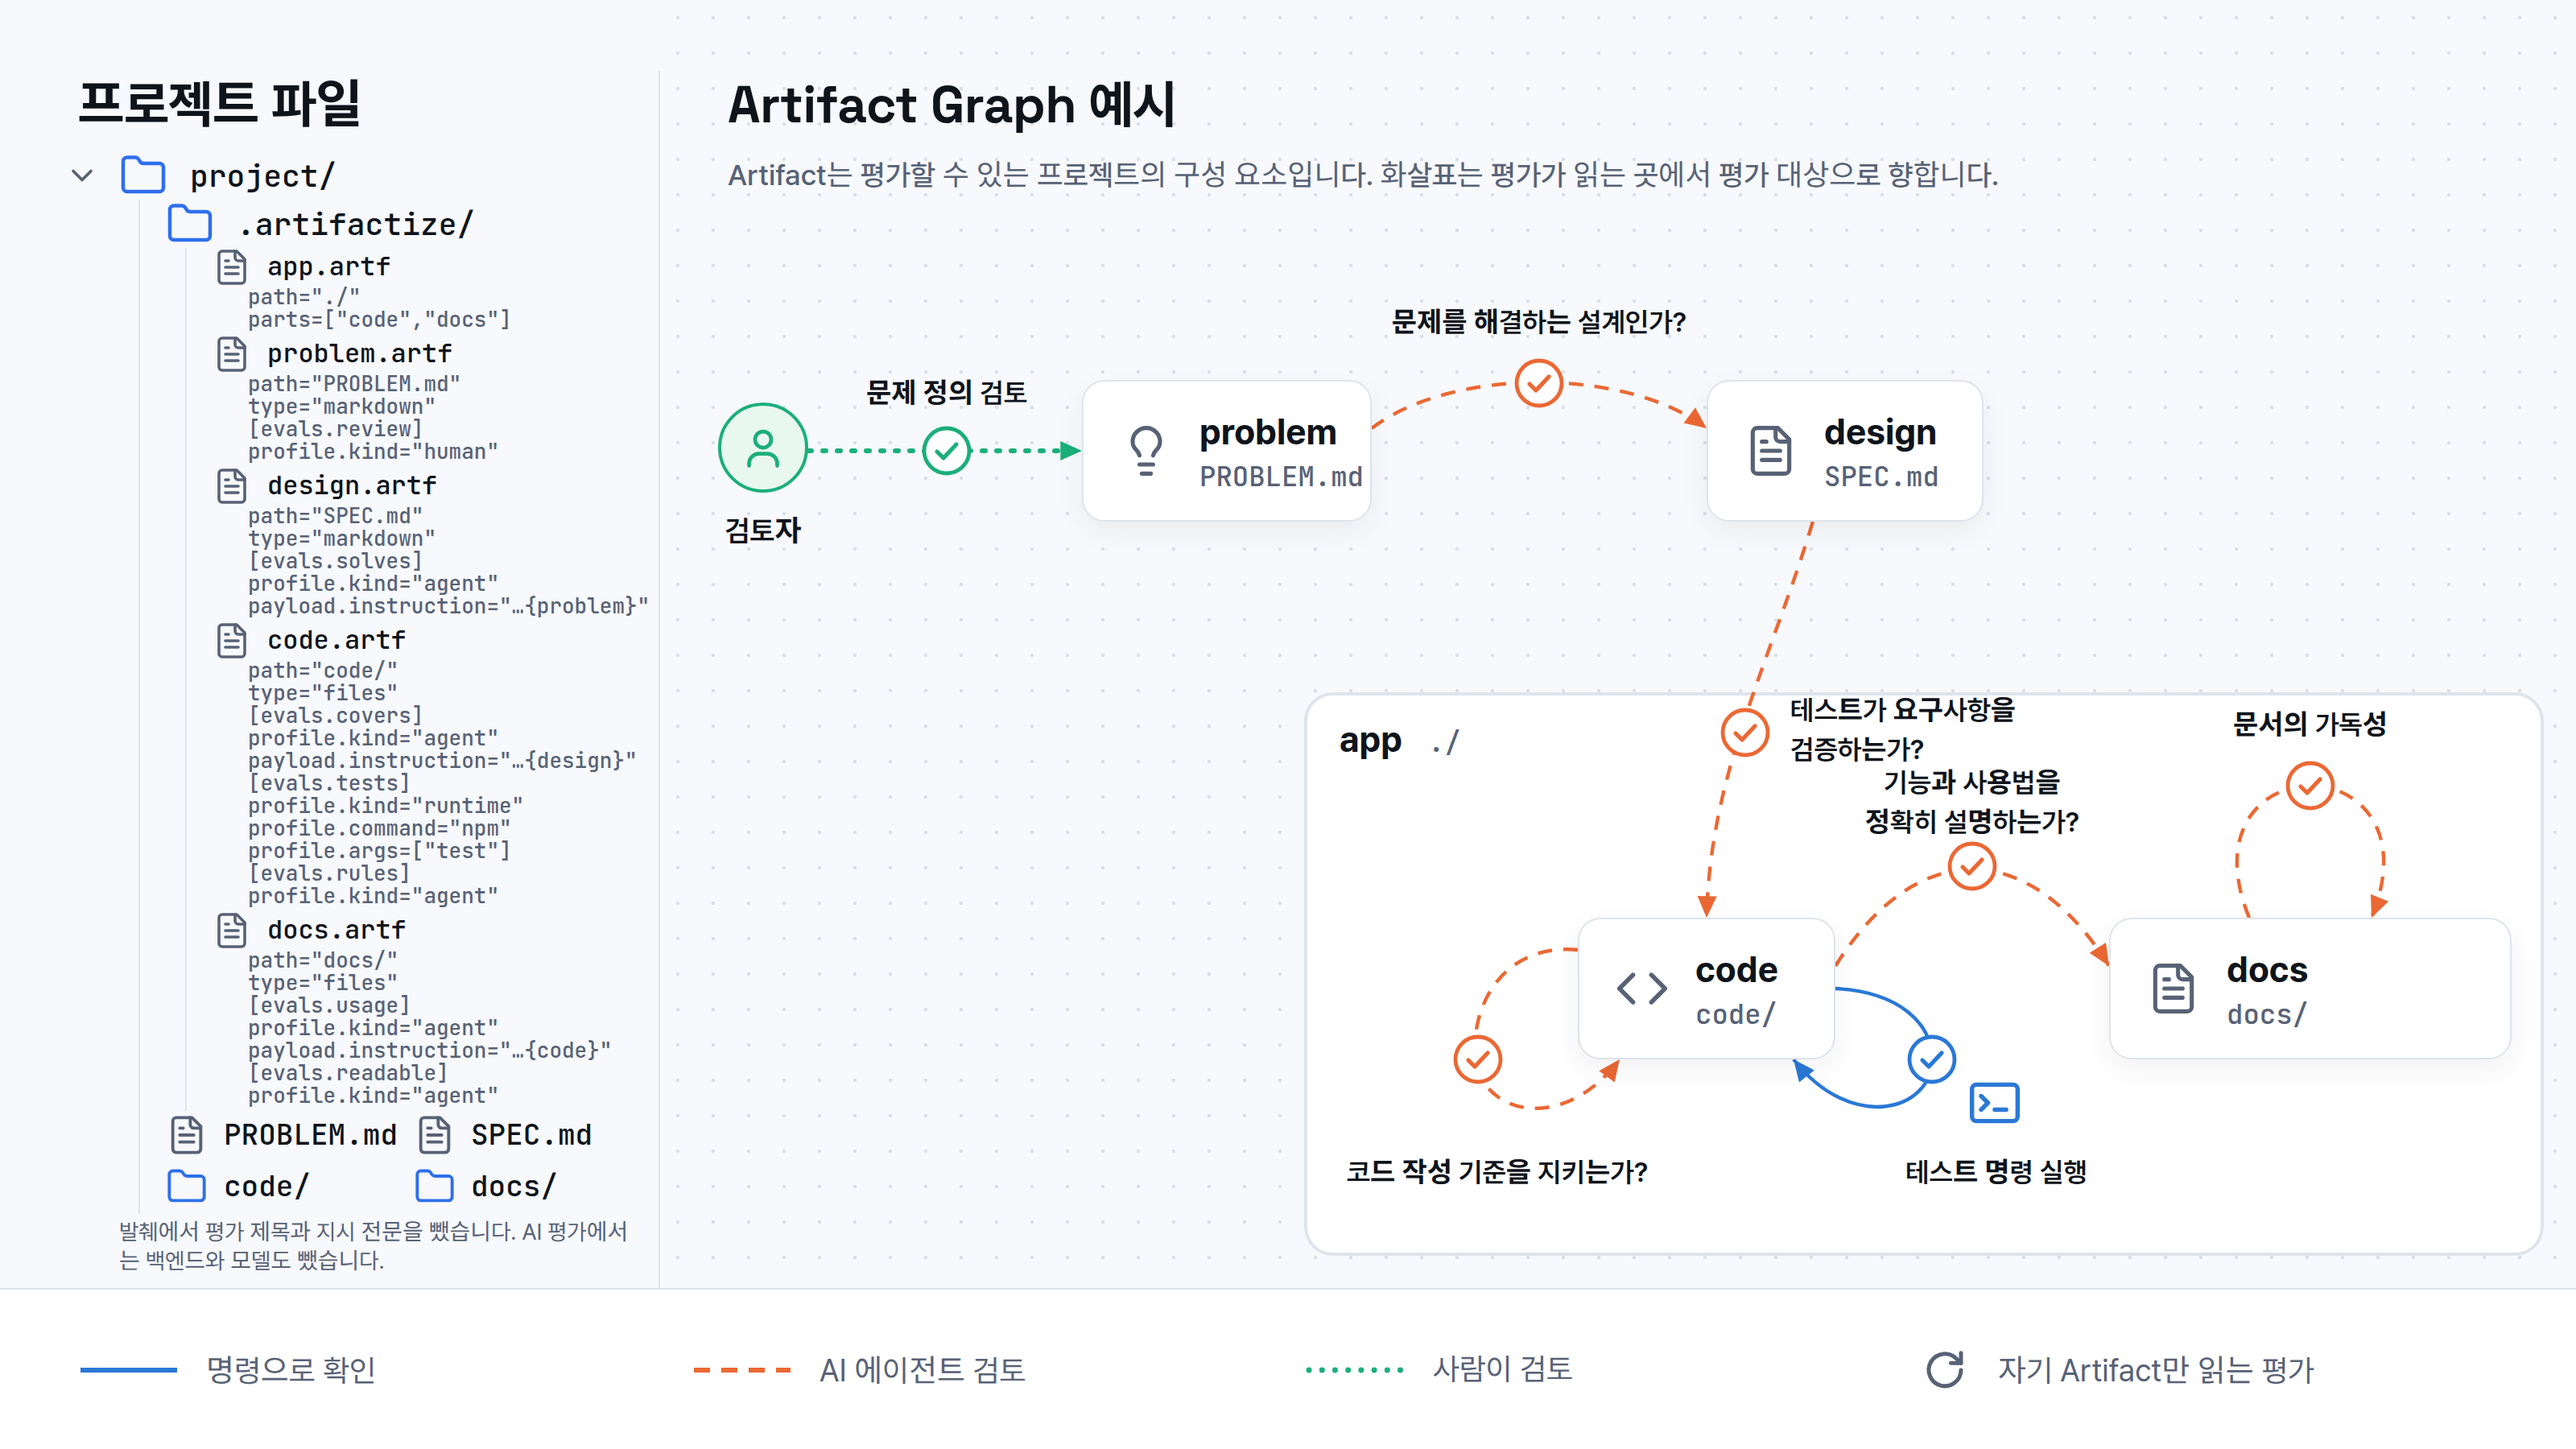
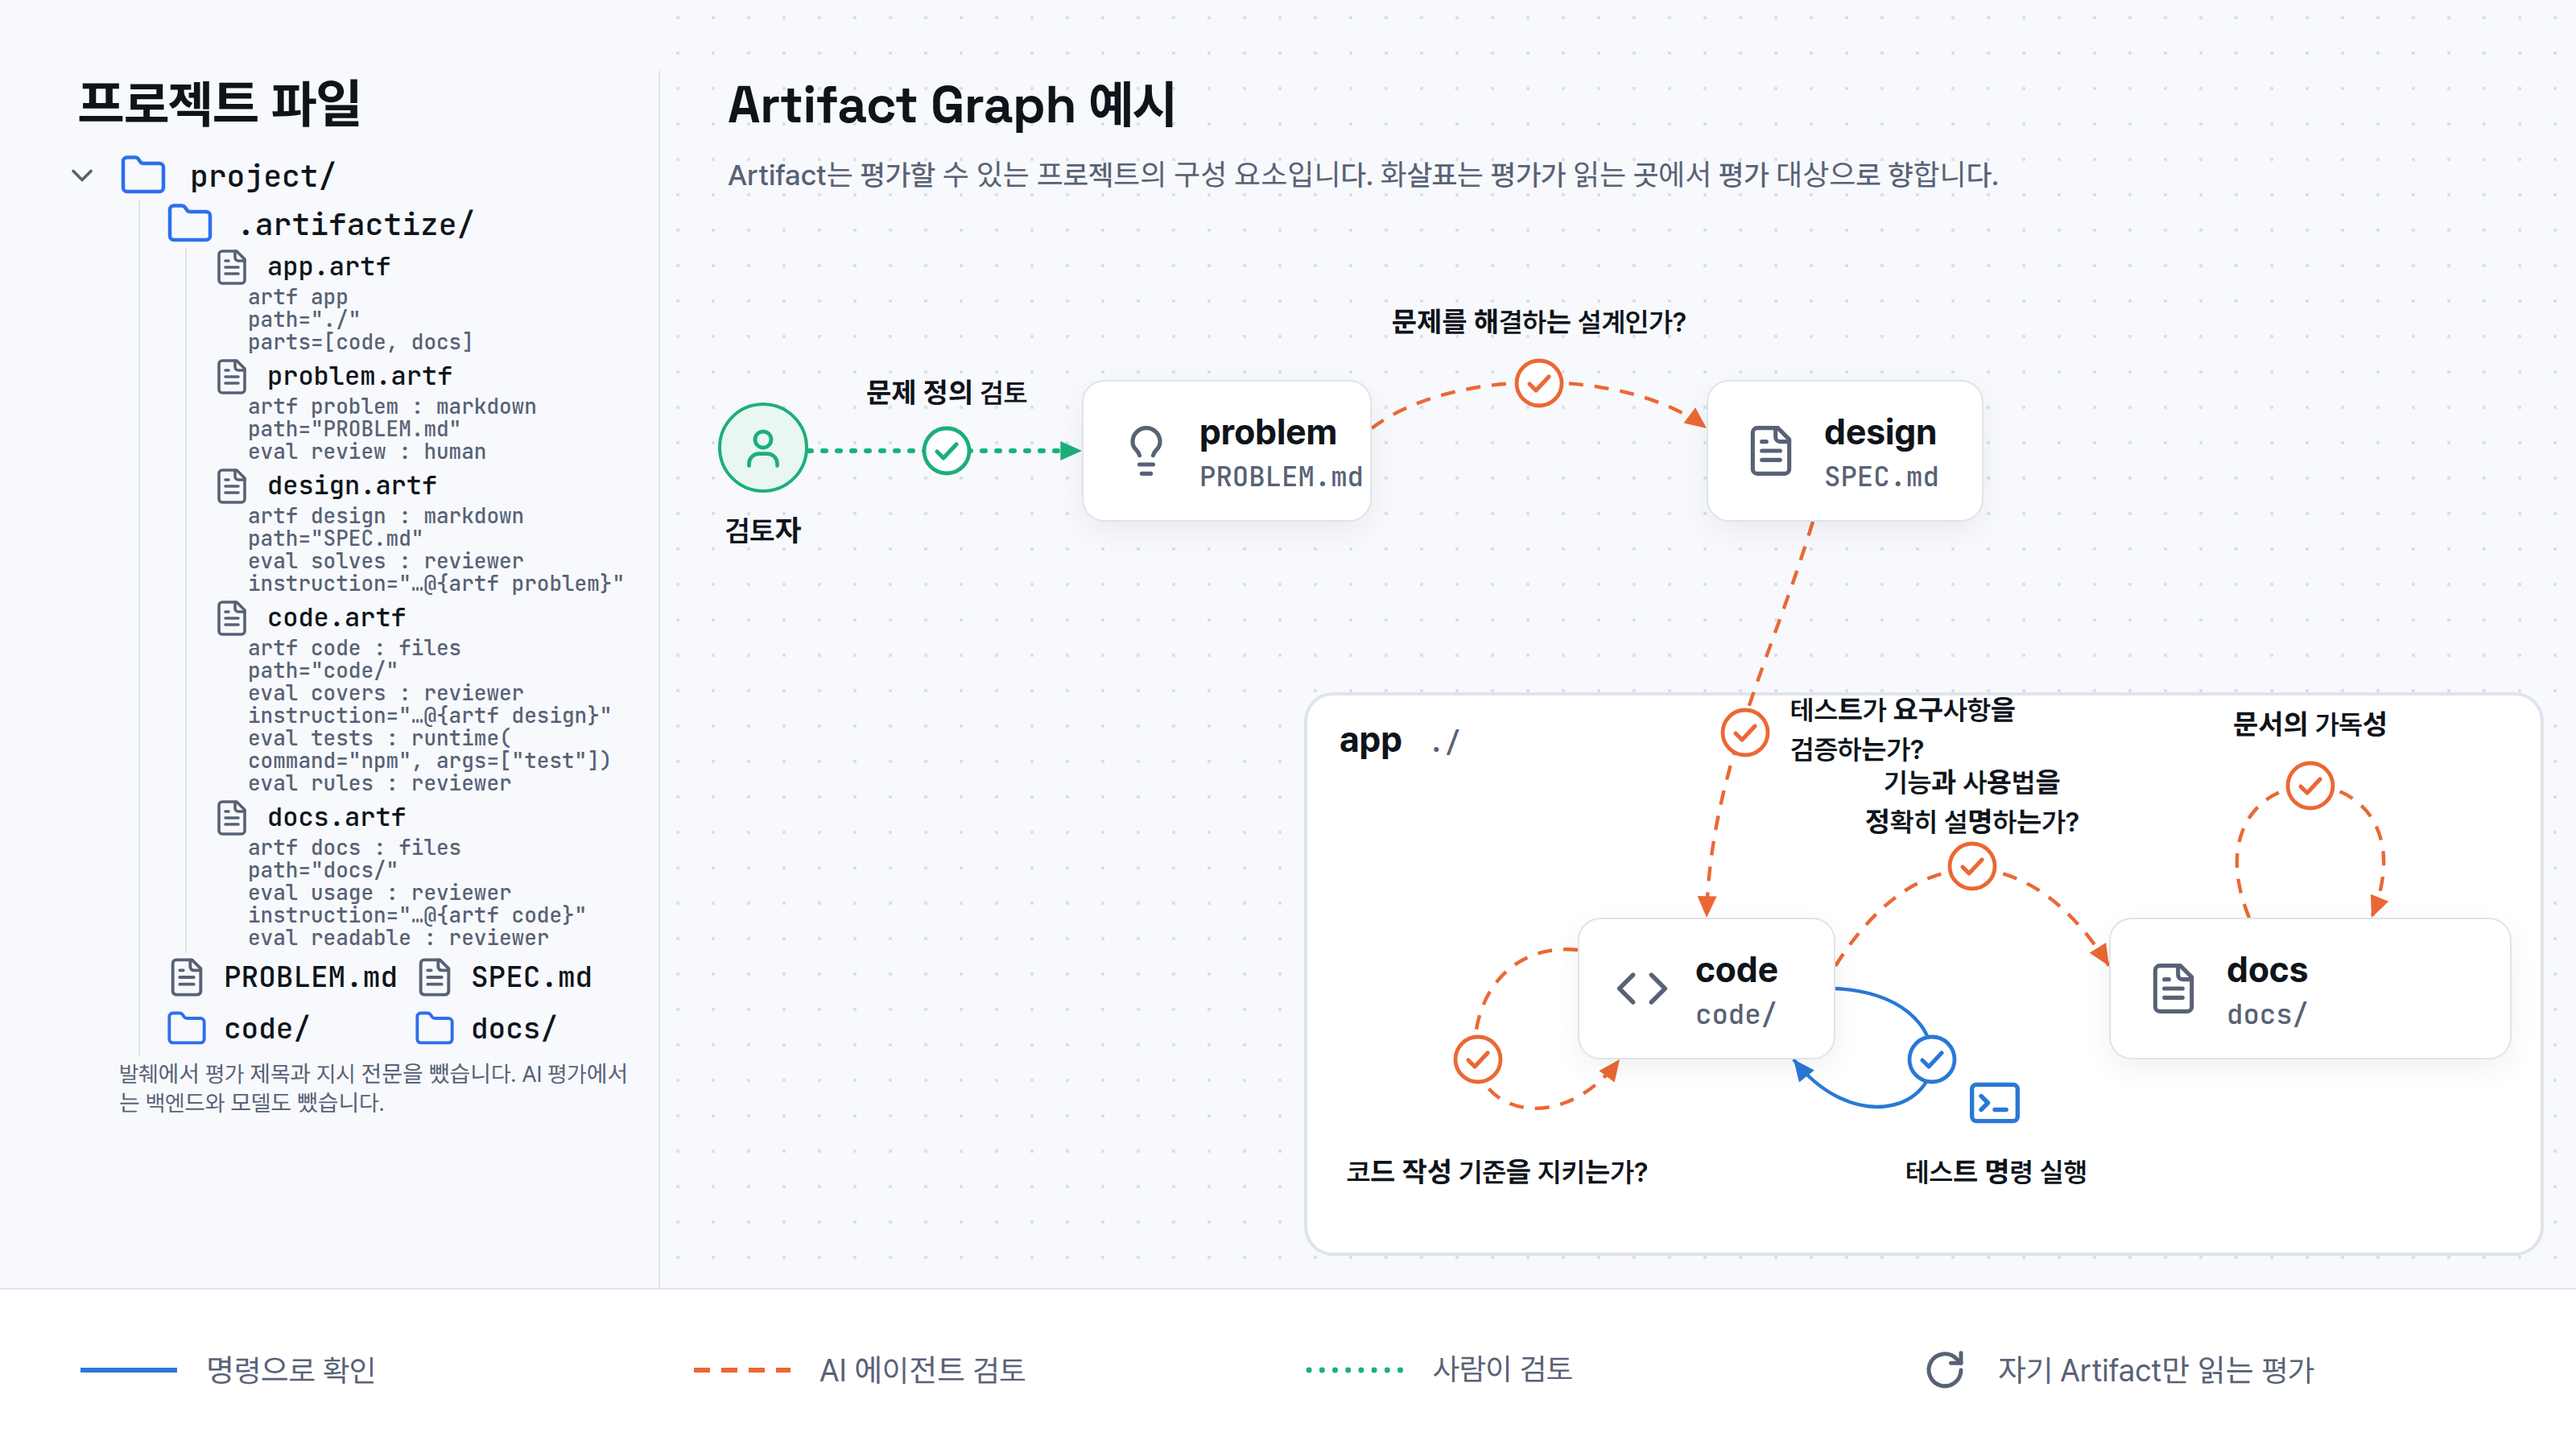
chore(site): demo projects, landing sample and graph figure in the .artf language (#504)

Changed region(s): [[0.0312, 0.3422, 0.25, 0.8711], [0.0938, 0.1867, 0.1875, 0.3111]]

diff --git a/website/landing/index.html b/website/landing/index.html
@@ -143,22 +143,26 @@
         <p data-locale="ko" class="kicker">한눈에 보기</p>
         <h2 data-locale="en" id="glance-title">Declare the checks first. Fix what fails until verify turns GREEN.</h2>
         <h2 data-locale="ko" id="glance-title">먼저 eval을 선언하세요. 문제를 고친 뒤 verify를 다시 실행하세요. GREEN이 나올 때까지 반복하세요.</h2>
-        <p data-locale="en" class="download-note">Describe each Artifact in <code>.artifactize/&lt;name&gt;.artf</code>. Reference the Artifacts an eval reads in braces by name—for example, <code>{api}</code> and <code>{spec}</code>—so a change to any of those inputs runs the eval again.</p>
-        <p data-locale="ko" class="download-note"><code>.artifactize/&lt;name&gt;.artf</code> 파일에 각 Artifact를 선언합니다. eval에서 Artifact를 참조하려면 <code>{api}</code>나 <code>{spec}</code>처럼 이름을 중괄호로 감싸세요. 참조한 입력 중 하나라도 바뀌면 해당 eval을 다시 실행합니다.</p>
+        <p data-locale="en" class="download-note">Describe each Artifact with an <code>artf</code> statement in <code>.artifactize/</code>. Name the Artifacts an eval reads—for example, <code>@{artf spec}</code>—so a change to any of those inputs runs the eval again.</p>
+        <p data-locale="ko" class="download-note"><code>.artifactize/</code> 아래에 <code>artf</code> 문으로 각 Artifact를 선언합니다. eval이 읽는 Artifact는 <code>@{artf spec}</code>처럼 이름으로 가리키세요. 가리킨 입력 중 하나라도 바뀌면 해당 eval을 다시 실행합니다.</p>
       </div>
       <div class="panel start-panel">
-<pre class="code"><code><span class="t-dim"># .artifactize/api.artf</span>
-path = "crates/api/"
+<pre class="code"><code><span class="t-dim">// .artifactize/api.artf</span>
+profile sol = agent(backend = "codex", model = "gpt-6.2-sol", reasoning = "high")
 
-[evals.tests]
-title = "API tests pass"
-profile = { kind = "runtime", command = "cargo", args = ["test", "--locked"] }
-payload.instruction = "Run the test suite of {api}."
+artf api : files = {
+  path = "crates/api/"
 
-[evals.matches-spec]
-title = "API implementation matches the specification"
-profile = { kind = "agent", backend = "codex", model = "gpt-6.2-sol", reasoning = "high" }
-payload.instruction = "Review {api} against {spec}. Submit GREEN only when every route matches."</code></pre>
+  eval tests : runtime(command = "cargo", args = ["test", "--locked"]) = {
+    title = "API tests pass"
+    instruction = "Run the API's test suite."
+  }
+
+  eval matches-spec : sol = {
+    title = "API implementation matches the specification"
+    instruction = "Review @{artf self} against @{artf spec}. Each route that does not match is an issue."
+  }
+}</code></pre>
       </div>
       <div class="panel start-panel">
 <pre class="code term"><code><span class="t-prompt">$</span> artifactize verify --all --wait
@@ -169,9 +173,9 @@ Summary: executed 2 (runtime 1, agent 1, human 0), reused 1 (human 1)</code></pr
       </div>
       <figure class="hero-graph">
         <img src="/media/graph-example.en.png" width="1600" height="900" loading="lazy" decoding="async"
-             alt="Example Artifact Graph: a project's PROBLEM.md, SPEC.md, code/ and docs/ are each declared by an .artf file, connected by command checks, AI agent reviews and a person's sign-off."
+             alt="Example Artifact Graph: a project's PROBLEM.md, SPEC.md, code/ and docs/ are each declared as an Artifact in .artf code, connected by command checks, AI agent reviews and a person's sign-off."
              data-ko-src="/media/graph-example.ko.png"
-             data-ko-alt="Artifact Graph 예시: PROBLEM.md, SPEC.md, code/, docs/를 각각 별도의 .artf 파일에서 Artifact로 선언했습니다. 명령 실행, AI 에이전트 리뷰, 담당자 승인에 각각 어떤 입력이 필요한지 선으로 표시했습니다.">
+             data-ko-alt="Artifact Graph 예시: PROBLEM.md, SPEC.md, code/, docs/를 .artf 코드에서 각각 Artifact로 선언했습니다. 명령 실행, AI 에이전트 리뷰, 담당자 승인에 각각 어떤 입력이 필요한지 선으로 표시했습니다.">
       </figure>
     </div>
   </section>

diff --git a/assets/others/graph-example.html b/assets/others/graph-example.html
@@ -223,11 +223,11 @@
         <ul>
           <li><span><svg class="folder"><use href="#i-folder"/></svg>.artifactize/</span>
             <ul>
-              <li class="definition"><span class="artf"><svg class="file"><use href="#i-file"/></svg>app.artf</span><code>path=&quot;./&quot;</code><code>parts=[&quot;code&quot;,&quot;docs&quot;]</code></li>
-              <li class="definition"><span class="artf"><svg class="file"><use href="#i-file"/></svg>problem.artf</span><code>path=&quot;PROBLEM.md&quot;</code><code>type=&quot;markdown&quot;</code><code>[evals.review]</code><code>profile.kind=&quot;human&quot;</code></li>
-              <li class="definition"><span class="artf"><svg class="file"><use href="#i-file"/></svg>design.artf</span><code>path=&quot;SPEC.md&quot;</code><code>type=&quot;markdown&quot;</code><code>[evals.solves]</code><code>profile.kind=&quot;agent&quot;</code><code>payload.instruction=&quot;…{problem}&quot;</code></li>
-              <li class="definition"><span class="artf"><svg class="file"><use href="#i-file"/></svg>code.artf</span><code>path=&quot;code/&quot;</code><code>type=&quot;files&quot;</code><code>[evals.covers]</code><code>profile.kind=&quot;agent&quot;</code><code>payload.instruction=&quot;…{design}&quot;</code><code>[evals.tests]</code><code>profile.kind=&quot;runtime&quot;</code><code>profile.command=&quot;npm&quot;</code><code>profile.args=[&quot;test&quot;]</code><code>[evals.rules]</code><code>profile.kind=&quot;agent&quot;</code></li>
-              <li class="definition"><span class="artf"><svg class="file"><use href="#i-file"/></svg>docs.artf</span><code>path=&quot;docs/&quot;</code><code>type=&quot;files&quot;</code><code>[evals.usage]</code><code>profile.kind=&quot;agent&quot;</code><code>payload.instruction=&quot;…{code}&quot;</code><code>[evals.readable]</code><code>profile.kind=&quot;agent&quot;</code></li>
+              <li class="definition"><span class="artf"><svg class="file"><use href="#i-file"/></svg>app.artf</span><code>artf app</code><code>path=&quot;./&quot;</code><code>parts=[code, docs]</code></li>
+              <li class="definition"><span class="artf"><svg class="file"><use href="#i-file"/></svg>problem.artf</span><code>artf problem : markdown</code><code>path=&quot;PROBLEM.md&quot;</code><code>eval review : human</code></li>
+              <li class="definition"><span class="artf"><svg class="file"><use href="#i-file"/></svg>design.artf</span><code>artf design : markdown</code><code>path=&quot;SPEC.md&quot;</code><code>eval solves : reviewer</code><code>instruction=&quot;…@{artf problem}&quot;</code></li>
+              <li class="definition"><span class="artf"><svg class="file"><use href="#i-file"/></svg>code.artf</span><code>artf code : files</code><code>path=&quot;code/&quot;</code><code>eval covers : reviewer</code><code>instruction=&quot;…@{artf design}&quot;</code><code>eval tests : runtime(</code><code>command=&quot;npm&quot;, args=[&quot;test&quot;])</code><code>eval rules : reviewer</code></li>
+              <li class="definition"><span class="artf"><svg class="file"><use href="#i-file"/></svg>docs.artf</span><code>artf docs : files</code><code>path=&quot;docs/&quot;</code><code>eval usage : reviewer</code><code>instruction=&quot;…@{artf code}&quot;</code><code>eval readable : reviewer</code></li>
             </ul>
           </li>
           <li class="source"><span><svg class="file"><use href="#i-file"/></svg>PROBLEM.md</span></li><li class="source"><span><svg class="file"><use href="#i-file"/></svg>SPEC.md</span></li>
